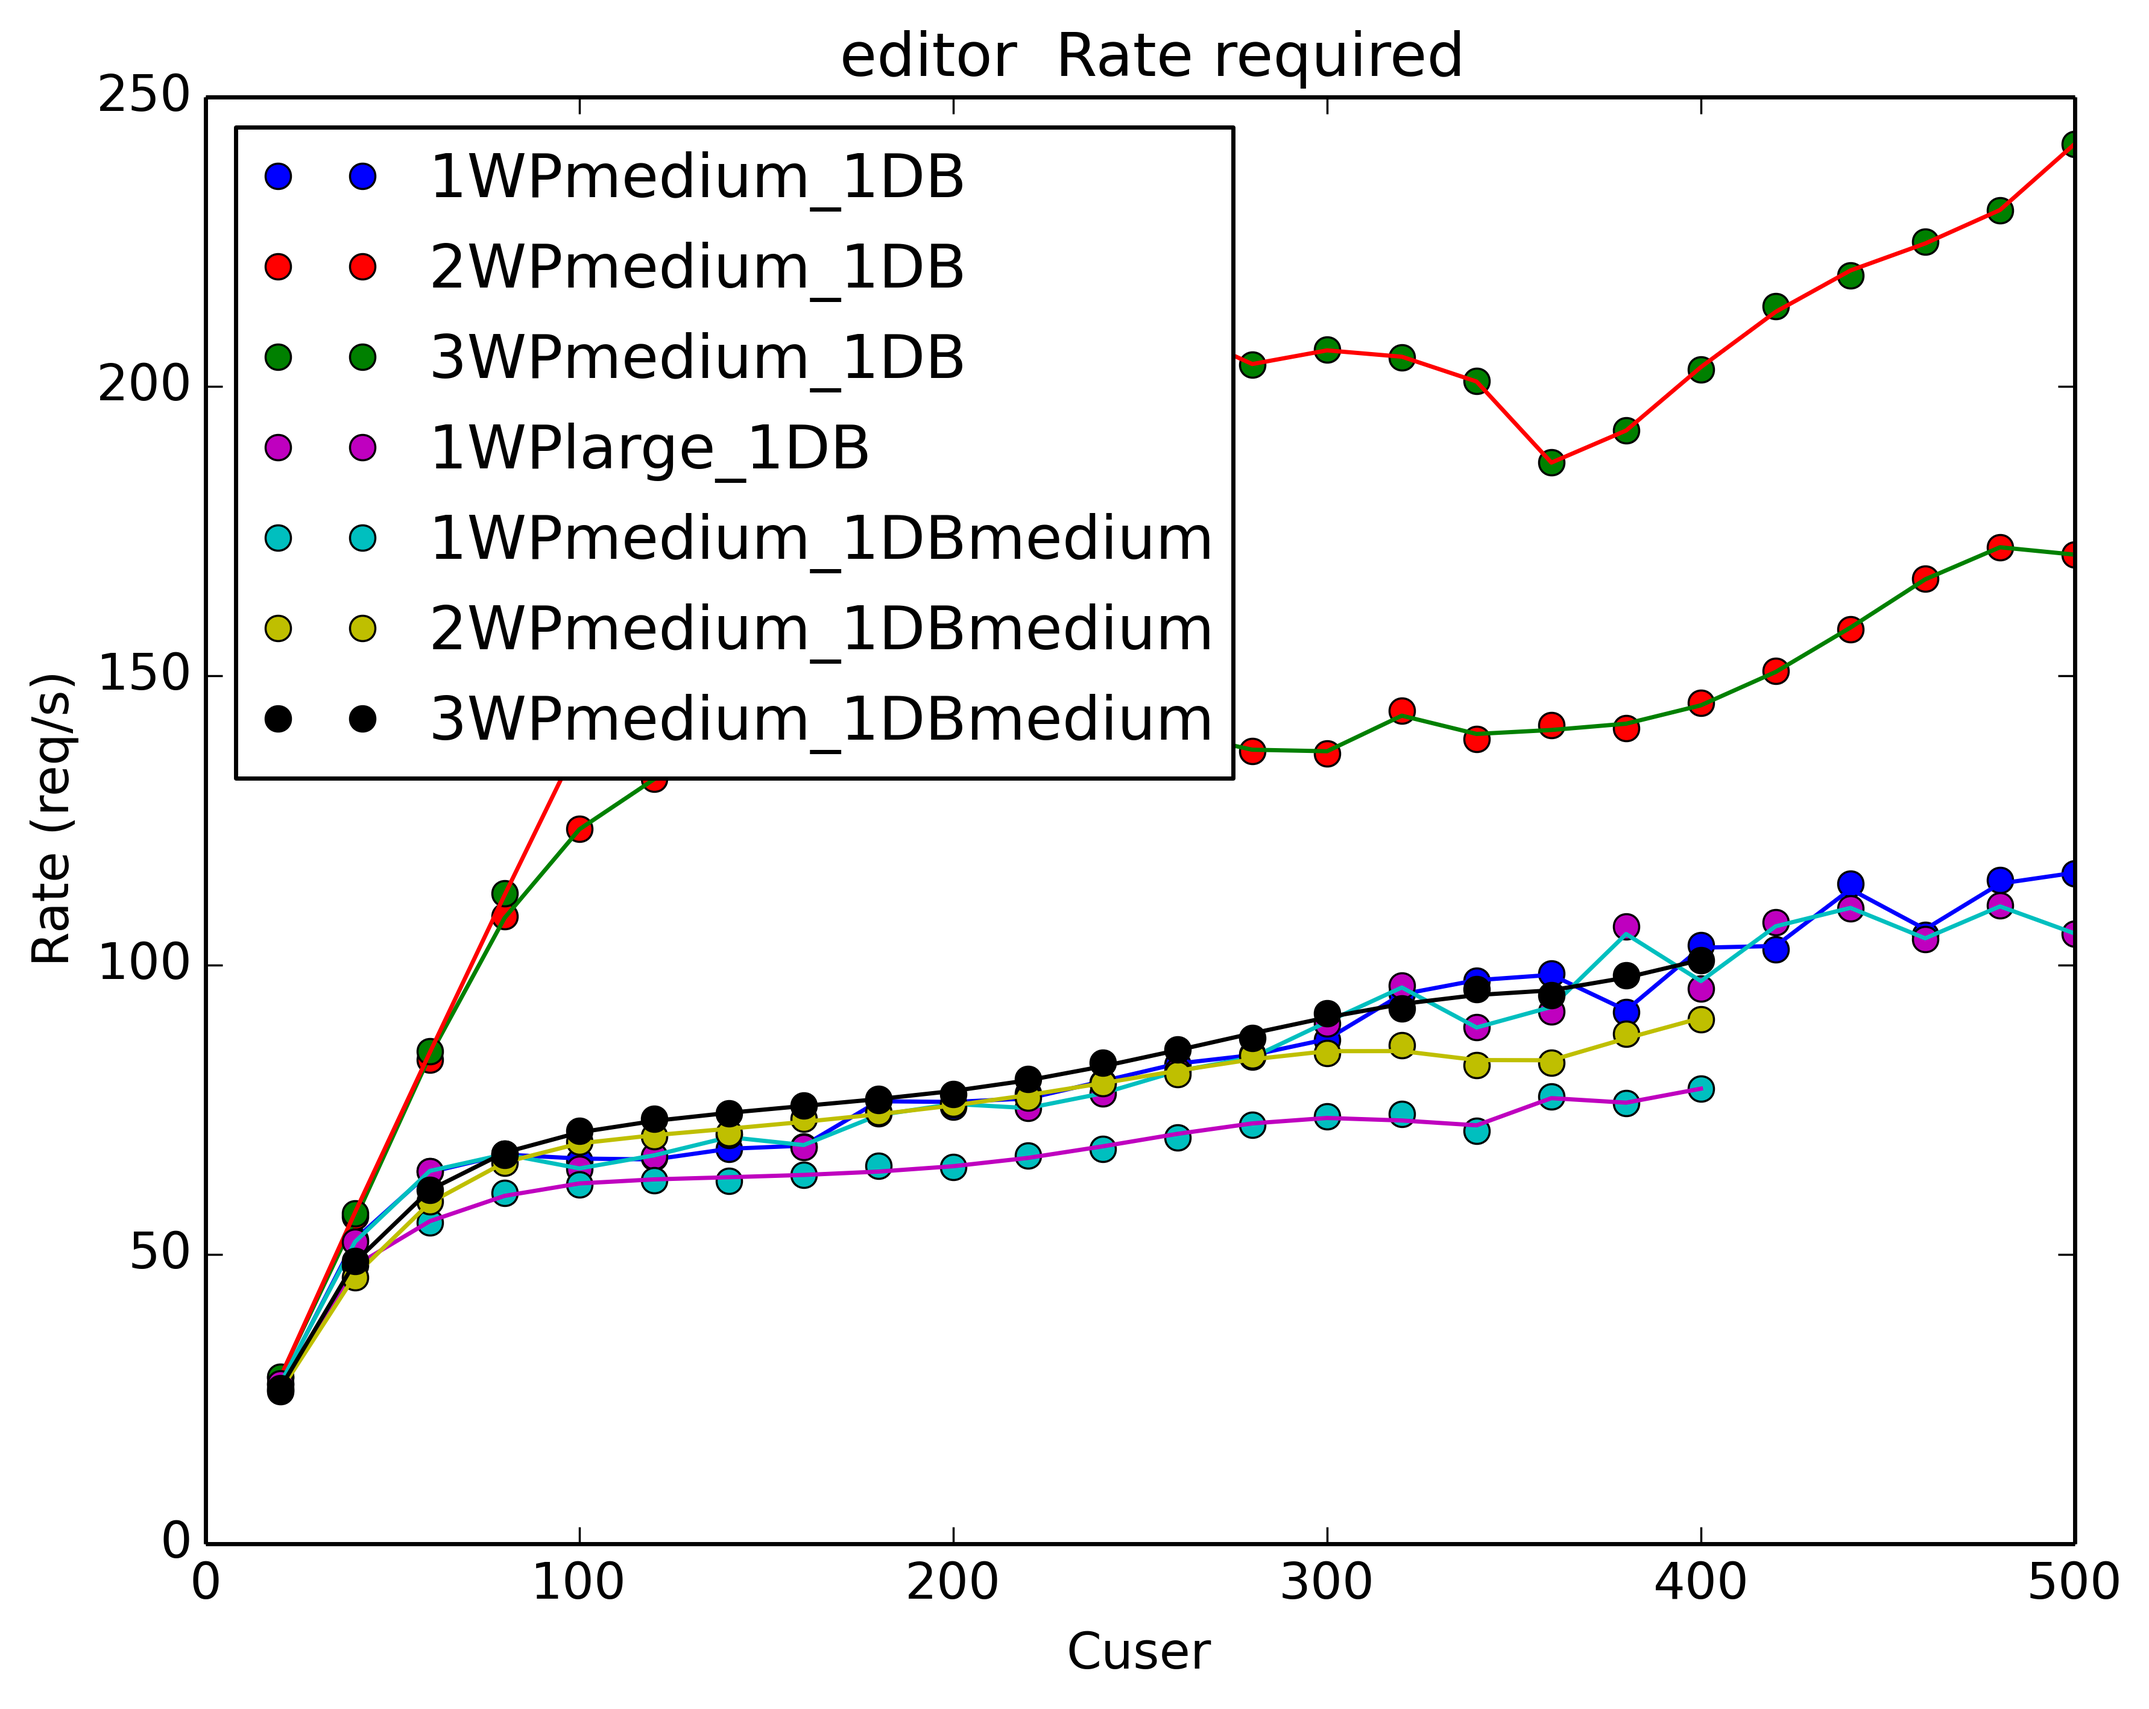
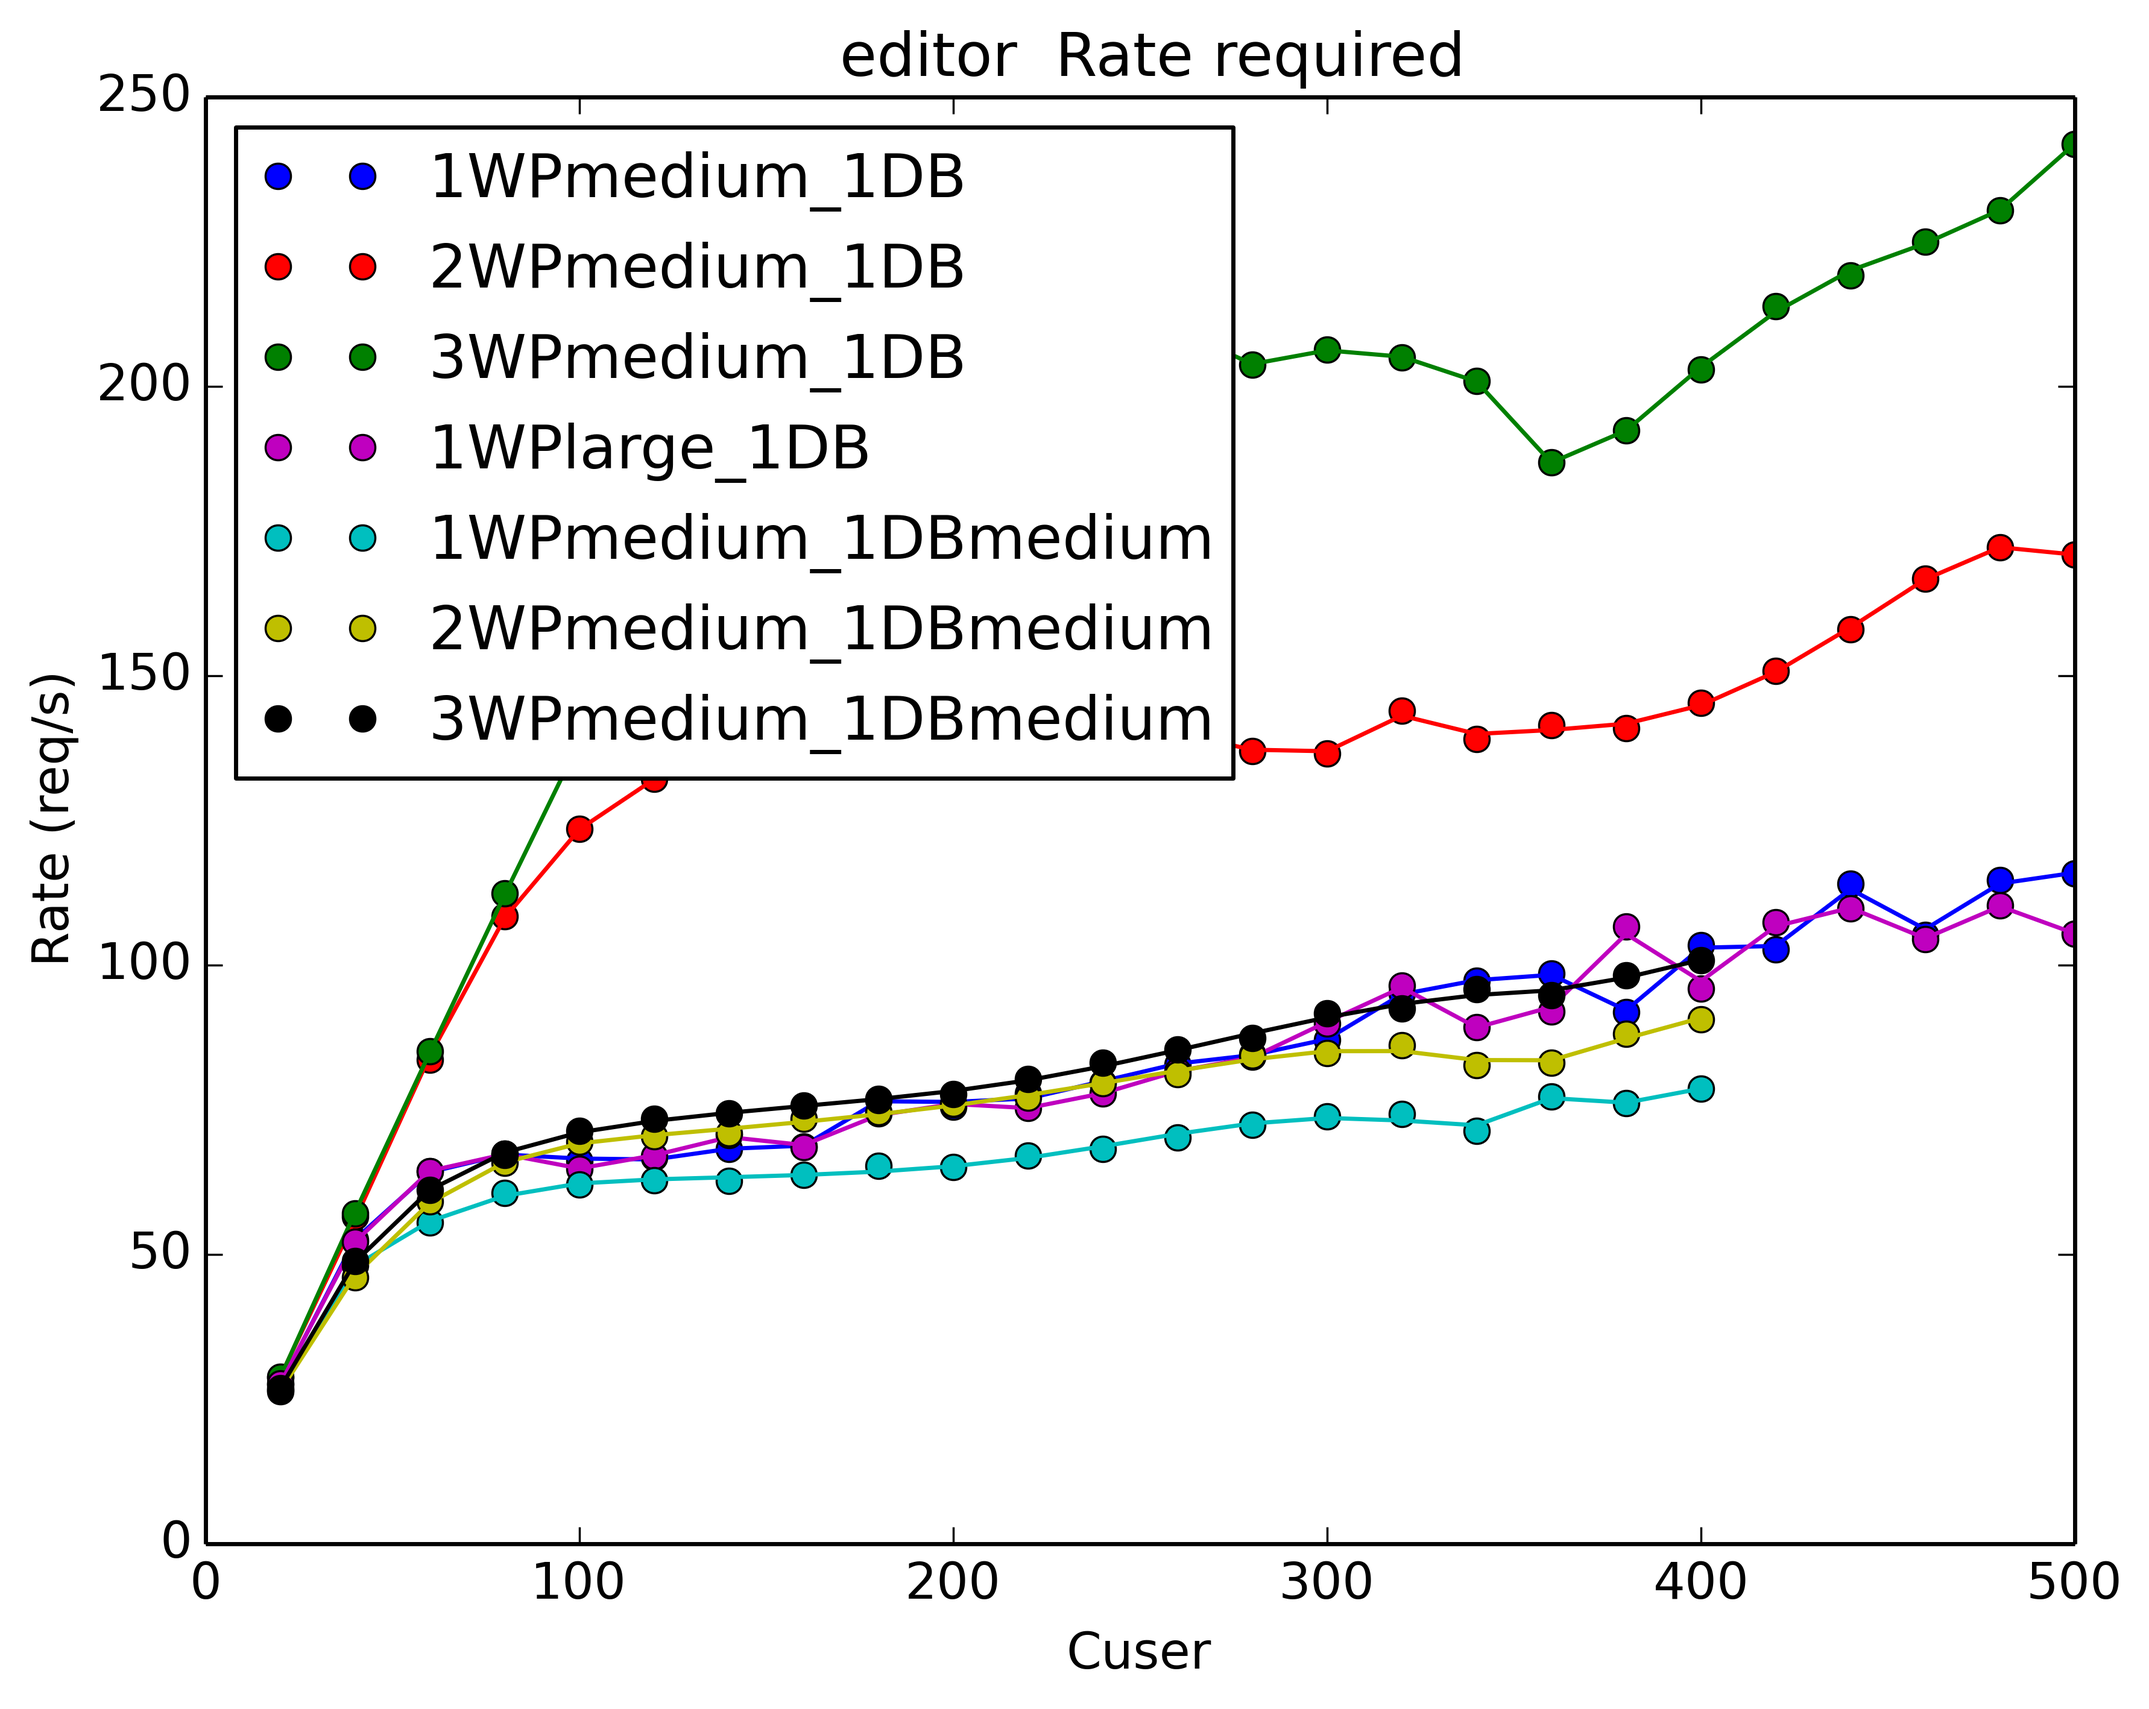
colors corrected, costs plot cleaned, output updated

diff --git a/scripts/Plot.py b/scripts/Plot.py
@@ -6,6 +6,7 @@ from scipy.interpolate import splrep, splev
 from pathlib import Path
 base_dir = str(Path().resolve())
 colors=['bo','ro','go','mo','co','yo','ko']
+colorsl=['b','r','g','m','c','y','k']
 class Plot():
 
 	def __init__(self, df, ConfTable, CostTable, Profiles, costs):
@@ -31,13 +32,13 @@ class Plot():
 			df2 = df.loc[(df['Conf'] == Conf[i]) & (df['profile'] == profile)]
 			z = df2['Cuser']
 			h = df2['RT']
-			pd.to_numeric(df2['RT'])
+			#pd.to_numeric(df2['RT'])
 			z = z.values.tolist()
 			h = h.values.tolist()
 			bspl1 = splrep(z, h, s=5)
 			bspl_z = splev(z, bspl1)
 			plt.plot(z, h, colors[i], label=Conf[i])
-			plt.plot(z, bspl_z)
+			plt.plot(z, bspl_z,colorsl[i])
 
 		plt.legend(loc="upper left")
 		plt.xlabel('Cuser')
@@ -59,7 +60,7 @@ class Plot():
 			bspl1 = splrep(z, h, s=5)
 			bspl_z = splev(z, bspl1)
 			plt.plot(z, h, colors[i], label=Conf[i])
-			plt.plot(z, bspl_z)
+			plt.plot(z, bspl_z,colorsl[i])
 
 		plt.legend(loc="upper left")
 		plt.xlabel('Cuser')
@@ -81,7 +82,7 @@ class Plot():
 			bspl1 = splrep(z, h, s=5)
 			bspl_z = splev(z, bspl1)
 			plt.plot(z, h, colors[i], label=Conf[i])
-			plt.plot(z, bspl_z)
+			plt.plot(z, bspl_z,colorsl[i])
 
 		plt.legend(loc="upper left")
 		plt.xlabel('Cuser')
@@ -104,8 +105,8 @@ class Plot():
 			h = h.values.tolist()
 			bspl1 = splrep(z, h, s=5)
 			bspl_z = splev(z, bspl1)
-			plt.plot(z, h, colors[i], label=Conf[i])
-			plt.plot(z, bspl_z)
+			#plt.plot(z, h, colors[i], label=Conf[i])
+			plt.plot(z, bspl_z, colorsl[i], label=Conf[i])
 
 		plt.legend(loc="upper right")
 		plt.xlabel('Cuser')
